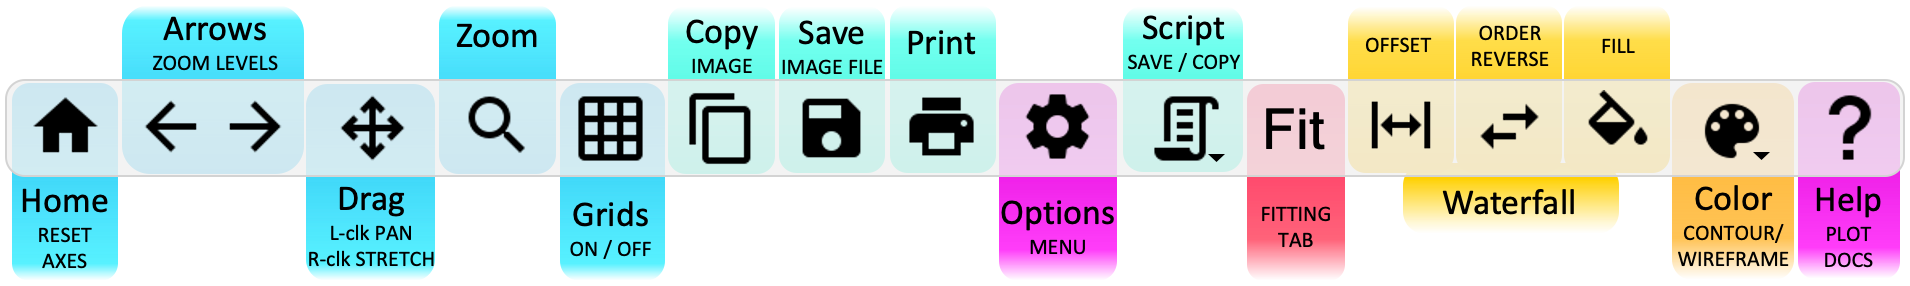
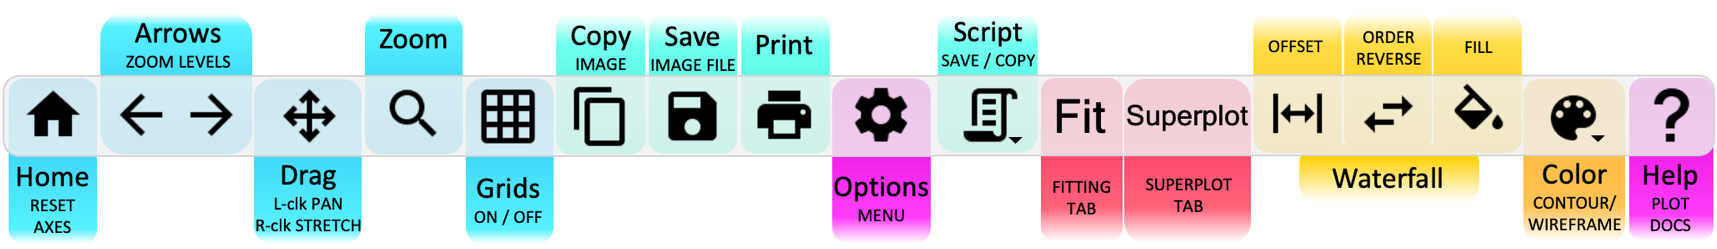
Docs Updates after release 6.5
Add superplot to 06_formatting_plots page
Mention changing layout on gettingstarted/mainwindow basic course
Add ADS import to 02_pim_sol solution code
Update 03_fit_model_choices to give better fit for EMU data

diff --git a/docs/source/tutorials/mantid_basic_course/fitting_data/03_fit_model_choices.rst b/docs/source/tutorials/mantid_basic_course/fitting_data/03_fit_model_choices.rst
@@ -18,9 +18,9 @@ Multiple peaks + background
 
 It is possible to fit overlapping peaks on a common
 background. Load the file `GEM38370_Focussed` and plot spectrum number 6.
-Zoom in on the 3 peaks around 2.15 Angstroms. Add 3 Gaussian peaks and a Linear Background.
-As can be seen in the screenshot below, the peaks don't have to be of the same type. Run the Fit
-and inspect the results.
+Zoom in on the 3 peaks around 2.15 Angstroms. Add a Linear Background, add a Lorentzian peak
+to the large central peak, and add a Gaussian peak to both of the smaller peaks., as below.
+Run the Fit, and inspect the results.
 
 .. figure:: /images/FittingMultiplePeaks.png
    :alt: FittingMultiplePeaks.png
@@ -33,11 +33,19 @@ Non peak model + background
 
 Fitting is not limited to peaks. You can
 select any other function from our list via right-click "Add other
-function". Load `EMU00020884` and plot spectrum number 6. Add the other function : `ExpDecayOsc`.
-Run the Fit an inspect the results. You may need to edit the fitting range (StartX and EndX) to get a good fit!
+function".
+
+Load `EMU00020884` and plot spectrum number 6. Add the other function : `ExpDecay`
+Run the Fit and inspect the results. You may need to edit the fitting range (StartX and EndX) to get a good fit!
+
+.. figure:: /images/AddOtherFunctionOptionEMUDecayOnly.png
+   :alt: AddOtherFunctionOption Fit for Only ExpDecay
+   :align: center
+
+Next, add the other function : `GausOsc` and run the Fit again. You should find this fit is better.
 
 .. figure:: /images/AddOtherFunctionOptionEMU.png
-   :alt: AddOtherFunctionOption.png
+   :alt: AddOtherFunctionOptionEMU.png
    :align: center
 
 

diff --git a/docs/source/tutorials/mantid_basic_course/getting_started/main_window.rst b/docs/source/tutorials/mantid_basic_course/getting_started/main_window.rst
@@ -40,6 +40,9 @@ As a quick introduction, the main window contains these Toolboxes:
 
 **Note** to find out what Mantid version you are using, look at the first message in the :red:`Messages Box`. You can see I'm using Mantid 6.1.0.
 
+**Note** You can click on the top bar of each toolbox and drag it to edit the layout.
+To reset the layout for MantidWorkbench to the default, go to View > Restore Default Layout.
+
 Quick Intro to Workspaces and Bins
 ==================================
 

diff --git a/docs/source/tutorials/python_in_mantid/solutions/02_pim_sol.rst b/docs/source/tutorials/python_in_mantid/solutions/02_pim_sol.rst
@@ -52,6 +52,7 @@ B - Plotting ILL Data
     from mantid.simpleapi import *
     import matplotlib.pyplot as plt
     import numpy as np
+    from mantid.api import AnalysisDataService as ADS
 
     _164198 = ADS.retrieve('164198')
 

diff --git a/docs/source/tutorials/mantid_basic_course/loading_and_displaying_data/06_formatting_plots.rst b/docs/source/tutorials/mantid_basic_course/loading_and_displaying_data/06_formatting_plots.rst
@@ -29,6 +29,8 @@ Plot Toolbar
 |
 | We will cover use of the Fitting Tab later...
 |
+| For more information on Superplot, see :ref:`WorkbenchSuperplot`
+|
 |
 
 Plots Toolbox
